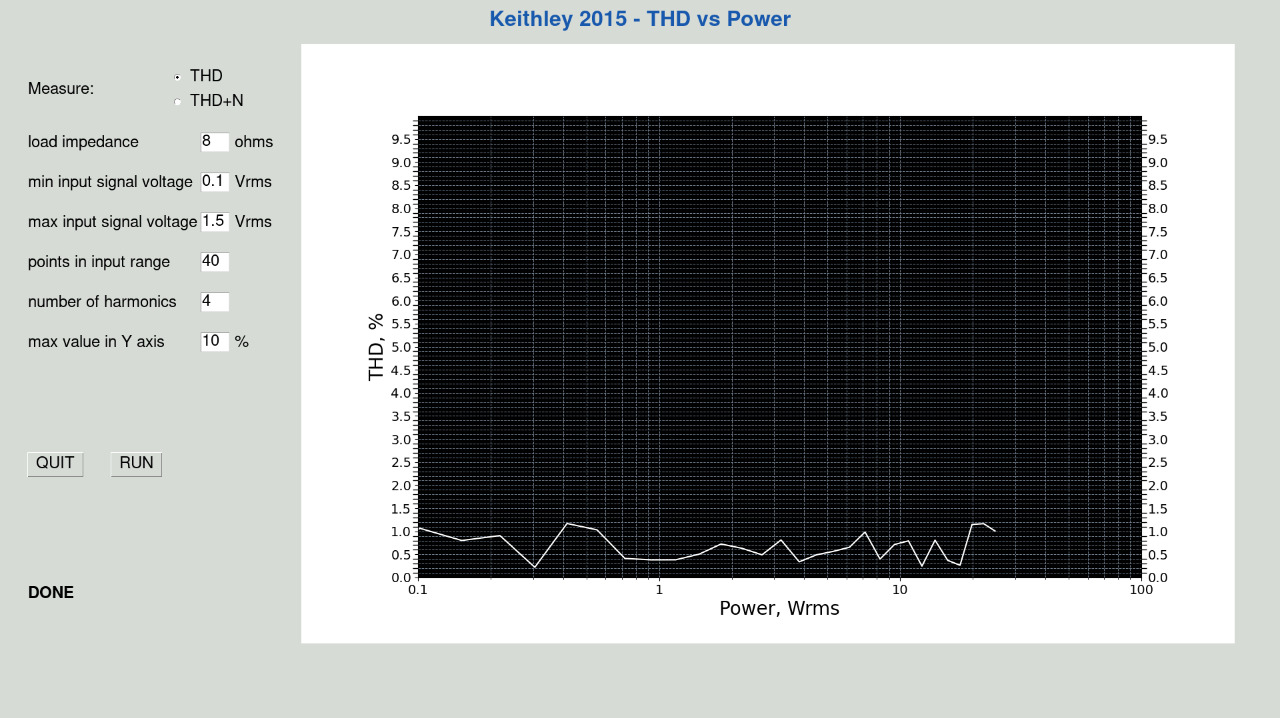
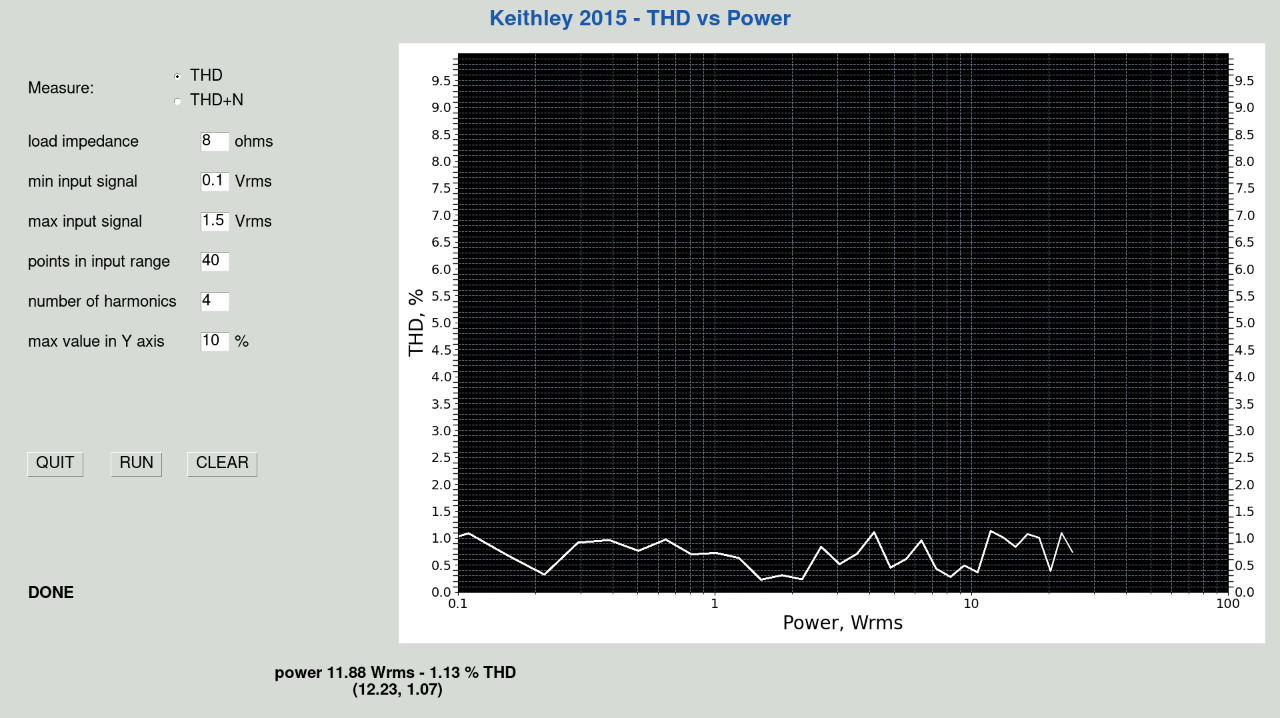
THDvsPower: Added new setting for freq.

diff --git a/thd_vs_power.py b/thd_vs_power.py
@@ -1,6 +1,6 @@
 # some config
 SIM = 1
-DEBUG = 1
+DEBUG = 0
 DISPLAY = 1 # display on or off
 
 DEFAULT_QTY_HARM = 4 # default number of harmonics to use for THD measurement of each freq.
@@ -12,11 +12,9 @@ DEFAULT_MAXY = 5 # default max value for Y axis in %
 DEFAULT_FREQ = 1000
 
 #TODO:
-#replot
-#multiple plots
-#clear button
-#hover plot
-#validations
+#TEST measurement with equipment
+#add validations of user input
+#add protection (max THD value)
 
 import numpy as np
 import matplotlib.pyplot as plt
@@ -61,34 +59,34 @@ class mclass:
         # load impedance
         self.lbl_load_impedance = Label(window, text="load impedance", font='Helvetica 18')
         self.lbl_load_impedance.place(x = 40, y = 203)
+        self.lbl_load_impedance = Label(window, text="ohms", font='Helvetica 18')
+        self.lbl_load_impedance.place(x = 395, y = 203)
         self.str_load_impedance = StringVar()
         self.str_load_impedance.set(DEFAULT_LOAD_IMPEDANCE)
-        self.etr_load_impedance = Entry(window, textvariable=self.str_load_impedance, font='Helvetica 18', width=3)
+        self.etr_load_impedance = Entry(window, textvariable=self.str_load_impedance, font='Helvetica 18', width=6)
         self.etr_load_impedance.place(x = 300, y = 200)
         self.etr_load_impedance.focus_set()
         self.etr_load_impedance.icursor(1)
-        self.lbl_load_impedance = Label(window, text="ohms", font='Helvetica 18')
-        self.lbl_load_impedance.place(x = 350, y = 203)
 
         # min input signal voltage
-        self.lbl_vin_min = Label(window, text="min input signal voltage", font='Helvetica 18')
+        self.lbl_vin_min = Label(window, text="min input signal", font='Helvetica 18')
         self.lbl_vin_min.place(x = 40, y = 263)
         self.lbl_vin_min = Label(window, text="Vrms", font='Helvetica 18')
-        self.lbl_vin_min.place(x = 350, y = 263)
+        self.lbl_vin_min.place(x = 395, y = 263)
         self.str_vin_min = StringVar()
         self.str_vin_min.set(DEFAULT_VIN_MIN)
-        self.etr_vin_min = Entry(window, textvariable=self.str_vin_min, font='Helvetica 18', width=3)
+        self.etr_vin_min = Entry(window, textvariable=self.str_vin_min, font='Helvetica 18', width=6)
         self.etr_vin_min.place(x = 300, y = 260)
         self.etr_vin_min.icursor(1)
 
         # min input signal voltage
-        self.lbl_vin_max = Label(window, text="max input signal voltage", font='Helvetica 18')
+        self.lbl_vin_max = Label(window, text="max input signal", font='Helvetica 18')
         self.lbl_vin_max.place(x = 40, y = 323)
         self.lbl_vin_max = Label(window, text="Vrms", font='Helvetica 18')
-        self.lbl_vin_max.place(x = 350, y = 323)
+        self.lbl_vin_max.place(x = 395, y = 323)
         self.str_vin_max = StringVar()
         self.str_vin_max.set(DEFAULT_VIN_MAX)
-        self.etr_vin_max = Entry(window, textvariable=self.str_vin_max, font='Helvetica 18', width=3)
+        self.etr_vin_max = Entry(window, textvariable=self.str_vin_max, font='Helvetica 18', width=6)
         self.etr_vin_max.place(x = 300, y = 320)
         self.etr_vin_max.icursor(1)
 
@@ -97,28 +95,39 @@ class mclass:
         self.lbl_points.place(x = 40, y = 383)
         self.str_points = StringVar()
         self.str_points.set(DEFAULT_POINTS)
-        self.etr_points = Entry(window, textvariable=self.str_points, font='Helvetica 18', width=3)
+        self.etr_points = Entry(window, textvariable=self.str_points, font='Helvetica 18', width=6)
         self.etr_points.place(x = 300, y = 380)
         self.etr_points.icursor(1)
 
+        # frequency
+        self.lbl_freq = Label(window, text="input signal freq.", font='Helvetica 18')
+        self.lbl_freq.place(x = 40, y = 443)
+        self.lbl_freq = Label(window, text="Hz", font='Helvetica 18')
+        self.lbl_freq.place(x = 395, y = 443)
+        self.str_freq = StringVar()
+        self.str_freq.set(DEFAULT_FREQ)
+        self.etr_freq = Entry(window, textvariable=self.str_freq, font='Helvetica 18', width=6)
+        self.etr_freq.place(x = 300, y = 440)
+        self.etr_freq.icursor(1)
+
         # number of harmonics
         self.lbl_harm_qty = Label(window, text="number of harmonics", font='Helvetica 18')
-        self.lbl_harm_qty.place(x = 40, y = 443)
+        self.lbl_harm_qty.place(x = 40, y = 503)
         self.str_harm_qty = StringVar()
         self.str_harm_qty.set(DEFAULT_QTY_HARM)
-        self.etr_harm_qty = Entry(window, textvariable=self.str_harm_qty, font='Helvetica 18', width=3)
-        self.etr_harm_qty.place(x = 300, y = 440)
+        self.etr_harm_qty = Entry(window, textvariable=self.str_harm_qty, font='Helvetica 18', width=6)
+        self.etr_harm_qty.place(x = 300, y = 500)
         self.etr_harm_qty.icursor(1)
 
         # y max
         self.lbl_maxy = Label(window, text="max value in Y axis", font='Helvetica 18')
-        self.lbl_maxy.place(x = 40, y = 503)
+        self.lbl_maxy.place(x = 40, y = 563)
         self.lbl_maxy = Label(window, text="%", font='Helvetica 18')
-        self.lbl_maxy.place(x = 350, y = 503)
+        self.lbl_maxy.place(x = 395, y = 563)
         self.str_maxy = StringVar()
         self.str_maxy.set(DEFAULT_MAXY)
-        self.etr_maxy = Entry(window, textvariable=self.str_maxy, font='Helvetica 18', width=3)
-        self.etr_maxy.place(x = 300, y = 500)
+        self.etr_maxy = Entry(window, textvariable=self.str_maxy, font='Helvetica 18', width=6)
+        self.etr_maxy.place(x = 300, y = 560)
         self.etr_maxy.icursor(1)
 
         # details - input sweep
@@ -127,17 +136,17 @@ class mclass:
         self.lbl_details.place(x = 40, y = 880)
 
         # coordinates
-        #self.str_coordinates = StringVar()
-        #self.lbl_coordinates = Label(window, textvariable=self.str_coordinates, font='Helvetica 18 bold')
-        #self.lbl_coordinates.place(x = 440, y = 1000)
+        self.str_coordinates = StringVar()
+        self.lbl_coordinates = Label(window, textvariable=self.str_coordinates, font='Helvetica 18 bold')
+        self.lbl_coordinates.place(x = 410, y = 1000)
 
         # buttons
         self.but_quit = Button(window, text="QUIT", command=self.quit, font='Helvetica 18')
         self.but_quit.place(x=40, y=680)
         self.but_start = Button(window, text="RUN", command=self.change_state, font='Helvetica 18')
         self.but_start.place(x=165, y=680)
-        #self.but_clear = Button(window, text="CLEAR", command=self.clear, font='Helvetica 18')
-        #self.but_clear.place(x=280, y=680)
+        self.but_clear = Button(window, text="CLEAR", command=self.clear, font='Helvetica 18')
+        self.but_clear.place(x=280, y=680)
         #end of ui
 
         if SIM:
@@ -203,16 +212,16 @@ class mclass:
     #enable en setup internal SIG GEN
     def enable_siggen(self):
         if DEBUG: print("Setting up internal SIGGEN")
-        if not SIM:
-            #self.send_cmd(':SENS:DIST:FREQ:AUTO OFF')
-            self.send_cmd(':OUTP:IMP HIZ') #;set high impedance source
-            self.send_cmd(':OUTP:AMPL 1') #;set amplitude in Vrms
-            self.send_cmd(':OUTP:CHAN2 ISINE') #;select inverted sine
+        if SIM: return
+        #self.send_cmd(':SENS:DIST:FREQ:AUTO OFF')
+        self.send_cmd(':OUTP:IMP HIZ') # set high impedance source
+        self.send_cmd(':OUTP:FREQ ' + int(self.freq.get())) # set frequency in Hz
+        self.send_cmd(':OUTP:CHAN2 ISINE') # select inverted sine
 
-    def set_siggen_freq(self, freq):
-        if DEBUG: print("Setting freq to %s" % freq)
+    def set_siggen_amp(self, amp):
+        if DEBUG: print("Setting SIGGEN amplitude to %s" % amp)
         if not SIM:
-            self.send_cmd(':OUTP:FREQ ' + str(freq)) #;set frequency in Hz
+            self.send_cmd(':OUTP:AMP ' + amp) #;set amplitude in Vrms
             self.send_cmd(':OUTP ON') #;turn on source
 
     def setup_thd_measurement(self):
@@ -232,10 +241,10 @@ class mclass:
         res = self.send_cmd(':READ?')
         res = float(format(float(res), '.3f'))
         if DEBUG: print("% dist: " + str(res))
-        self.dist_perc = format(float(self.send_cmd(':SENS:DIST:THD?')), '.6f')
-        if DEBUG: print("measured " + self.rad_values[int(self.rad_var.get())] + ": " + self.dist_perc + " %")
-        return res
+        #self.dist_perc = format(float(self.send_cmd(':SENS:DIST:THD?')), '.6f')
+        #if DEBUG: print("measured " + self.rad_values[int(self.rad_var.get())] + ": " + self.dist_perc + " %")
         #return self.dist_perc
+        return res
 
     def quit(self):
         if (not SIM and self.ser.isOpen()):
@@ -247,9 +256,9 @@ class mclass:
         #self.str_title.set("Keithley 2015 - %s vs Power" % self.str_measurement_type.get())
 
     def clear(self):
-        self.measurement = pd.DataFrame(columns = ['id', 'vin', 'vout', 'thd'])
+        self.measurement = pd.DataFrame(columns = ['id', 'vin', 'vout', 'thd', 'impedance'])
         self.plots = 0 # number of plots done. can be up to 4
-    #    self.plot()
+        self.plot()
 
     def change_state(self):
         if (self.but_start['text'] == "ABORT"): self.abort = 1
@@ -261,6 +270,7 @@ class mclass:
             self.etr_points.config(state = 'disabled')
             self.etr_harm_qty.config(state = 'disabled')
             self.etr_maxy.config(state = 'disabled')
+            self.etr_freq.config(state = 'disabled')
             self.rad_thd.config(state = 'disabled')
             self.rad_thdn.config(state = 'disabled')
             self.but_start['text'] = "ABORT"
@@ -270,7 +280,7 @@ class mclass:
 
             vin_min = float(self.str_vin_min.get())
             vin_max = float(self.str_vin_max.get())
-            step =  round((vin_max - vin_min) / (float(self.etr_points.get())-1), 2)
+            step =  round((vin_max - vin_min) / (float(self.etr_points.get())-1), 4)
             #print(vin_min)
             #print(vin_max)
             #print(step, "\n----\n")
@@ -287,10 +297,15 @@ class mclass:
             self.measurement['id'].fillna(self.plots, inplace=True)
 
             # enable siggen
-            #self.enable_siggen()
+            self.enable_siggen()
 
             # setup equipment for measurement THD
-            #self.setup_thd_measurement()
+            self.setup_thd_measurement()
+
+            if not self.plots: self.plot()
+
+            #if DEBUG: print(self.measurement)
+            #time.sleep(20)
 
             # for each input signal, measure THD, save it in data structure and plot
             sm = self.measurement.loc[(self.measurement['id'] == self.plots)]
@@ -307,12 +322,11 @@ class mclass:
                     self.etr_maxy.config(state = 'normal')
                     self.rad_thd.config(state = 'normal')
                     self.rad_thdn.config(state = 'normal')
+                    self.etr_freq.config(state = 'normal')
                     return
 
-
-                self.str_details.set("Measuring THD at: " + format(sm['vin'][vin], ".2f") + " Vrms input")
-                #if DEBUG: print("Measuring THD at: " , format(sm['vin'][vin], ".2f") , " Vrms input")
-                #self.lbl_details.place(x = 40, y = 880)
+                self.str_details.set("Measuring THD at " + format(sm['vin'][vin], ".4f") + " Vrms input")
+                if DEBUG: print("Measuring THD at " , format(sm['vin'][vin], ".4f") , " Vrms input")
 
                 if SIM:
                     value = 0.4
@@ -320,24 +334,26 @@ class mclass:
                     value = value + np.random.uniform(-0.2, 0.8)
                     if value < 0: value = 0.4
                     vout = (sm['vin'][vin] * 2.5) ** 2
+                else:
+                    self.set_siggen_amp(sm['vin'][vin])
 
-#               else:
-#                    self.set_siggen_freq(sm['vin'][vin])
-#                    value = self.measure_thd()
-#                    vout = 0 #get vout
-#
+                    #get thd in %
+                    value = self.measure_thd()
+
+                    #get vout in Vrms
+                    vout = self.send_cmd(':SENS:DIST:RMS?')
+                    vout = format(float(vout), '.6f')
+
+                # save measured data
                 cond = (self.measurement['id'] == self.plots) & (self.measurement['vin'] == sm['vin'][vin])
                 self.measurement.loc[cond, 'vout'] = vout
                 self.measurement.loc[cond, 'thd'] = value
 
-            #if DEBUG: print(self.measurement)
-            #time.sleep(20)
-
-            if not self.plots: self.plot()
-
                 #replot
-                #self.replot()
-            #self.replot()
+                self.replot()
+
+            if DEBUG: print(self.measurement)
+            #time.sleep(20)
 
             self.plots += 1
             self.but_start['text'] = "RUN"
@@ -350,12 +366,14 @@ class mclass:
             self.etr_points.config(state = 'normal')
             self.etr_harm_qty.config(state = 'normal')
             self.etr_maxy.config(state = 'normal')
+            self.etr_freq.config(state = 'normal')
 
             if DEBUG: print("DONE")
 
-#    def replot(self):
-#        self.fig.tight_layout()
-#        ax = self.fig.get_axes()[0]
+    def replot(self):
+        self.fig.tight_layout()
+#        self.fig.tight_layout(rect=[0.08, 0.08, 0.95, 0.95])
+        ax = self.fig.get_axes()[0]
 #        #ax.clear()         # clear axes from previous plot !!!!
 #        #plt.rcParams['toolbar'] = 'None'
 #        ax.tick_params(labeltop=False, labelright=True, labelsize=14)
@@ -367,26 +385,26 @@ class mclass:
 #        #ax.minorticks_on()
 #        #ax.set_xticks([20,50,100,200,500,1000,2000,5000,10000,20000], ["20", "50", "100", "200", "500", "1K", "2K", "5K", "10K", "20K"])
 #        #ax.set_xlim([20, 20000])
-#        ax.yaxis.set_ticks(np.arange(0, float(self.str_maxy.get()), 0.5), fontsize=20, visible=True) # la escala del eje Y cada 0.5 entre 0 y 5
+        ax.yaxis.set_ticks(np.arange(0, float(self.str_maxy.get()), 0.5), fontsize=20, visible=True) # la escala del eje Y cada 0.5 entre 0 y 5
 #        #ax.yaxis.set_minor_locator(AutoMinorLocator())
 #        #ax.tick_params(axis='y', which='minor', length=6, width='1', left='true', right='true')
-#        ax.set_ylim([0, float(self.str_maxy.get())])
-#        for id in self.measurement['id'].unique():
-#            if id < self.plots: continue
-#            cond = (self.measurement['id'] == id)
-#            df = self.measurement.loc[cond]
-#            c = 'white'
-#            if id == 1: c = 'salmon'
-#            if id == 2: c = 'deepskyblue'
-#            if id == 3: c = 'limegreen'
-#            ax.plot(df['freq'], df['thd'], color=c)
-#        plt.gcf().canvas.draw_idle()
-#        plt.gcf().canvas.start_event_loop(0.0001)
-#        plt.gcf().canvas.mpl_connect('motion_notify_event', self.motion_hover)
+        ax.set_ylim([0, float(self.str_maxy.get())])
+        for id in self.measurement['id'].unique():
+            if id < self.plots: continue
+            cond = (self.measurement['id'] == id)
+            df = self.measurement.loc[cond]
+            c = 'white'
+            if id == 1: c = 'salmon'
+            if id == 2: c = 'deepskyblue'
+            if id == 3: c = 'limegreen'
+            ax.plot(df['vout'] ** 2 / df['impedance'], df['thd'], color=c)
+        plt.gcf().canvas.draw_idle()
+        plt.gcf().canvas.start_event_loop(0.01)
+        plt.gcf().canvas.mpl_connect('motion_notify_event', self.motion_hover)
 
     def plot(self):
-        self.fig, ax = plt.subplots(figsize=(14, 9))
-        #self.fig.tight_layout()
+        self.fig, ax = plt.subplots(figsize=(13, 9))
+        self.fig.tight_layout()
         plt.rcParams['toolbar'] = 'None'
         ax.tick_params(labeltop=False, labelright=True,  labelsize=14)
         ax.set(xscale="log")
@@ -404,30 +422,28 @@ class mclass:
         ax.set_ylim([0, float(self.str_maxy.get())])
         ax.plot(self.measurement['vout'] ** 2 / self.measurement['impedance'], self.measurement['thd'], color='white')
         canvas = FigureCanvasTkAgg(self.fig, master=self.window)
-        canvas.get_tk_widget().place(relx=.6, rely=.48, anchor="c")
+        canvas.get_tk_widget().place(relx=.65, rely=.48, anchor="c")
         canvas.draw()
         canvas.start_event_loop(0.05)
-    #    canvas.mpl_connect('motion_notify_event', self.motion_hover)
+        canvas.mpl_connect('motion_notify_event', self.motion_hover)
 
-    #def motion_hover(self, event):
-    #    if self.measurement.empty: return
-    #    if self.but_start['text'] == "ABORT": return
-    #    if event.inaxes is not None:
-    #        df = self.measurement
-    #        df['freq'] = df['freq'].astype('float')
-    #        df['freq'] = df['freq'].apply(lambda x: round(x, 2))
-    #        x = event.xdata
-    #        y = format(event.ydata, '.2f')
-    #        freq = df.iloc[(df['freq']-x).abs().argsort()[:1]]['freq'].tolist()[0]
-#
-#            #show coordinates of cursor
-#            #self.str_coordinates.set("found %s %s" % (x, y))
-#
-#            self.str_coordinates.set("freq. %s Hz" % freq)
-#            for i, r in (df.loc[(df['freq'] == freq)]).iterrows():
-#                self.str_coordinates.set(self.str_coordinates.get() + " - %s %% THD" % format(r['thd'], '.2f'))
-#
-#            self.str_coordinates.set(self.str_coordinates.get() + "\n (%s, %s)" % (format(event.xdata, '.2f'),y))
+    def motion_hover(self, event):
+        if self.measurement.empty: return
+        if self.but_start['text'] == "ABORT": return
+        if event.inaxes is not None:
+            df = self.measurement
+            x = event.xdata
+            y = format(event.ydata, '.2f')
+            t = df.iloc[((df['vout']**2/df['impedance'])-x).abs().argsort()[:1]]
+            vin = t['vin'].tolist()[0]
+            vout = t['vout'].tolist()[0]
+            p = vout ** 2 / 8
+
+            self.str_coordinates.set("power %s Wrms" % format(p, '.2f'))
+            for i, r in (df.loc[(df['vin'] == vin)]).iterrows():
+                self.str_coordinates.set(self.str_coordinates.get() + " - %s %% THD" % format(r['thd'], '.2f'))
+
+            self.str_coordinates.set(self.str_coordinates.get() + "\n (%s, %s)" % (format(event.xdata, '.2f'),y))
 
 window = Tk()
 start = mclass(window)
